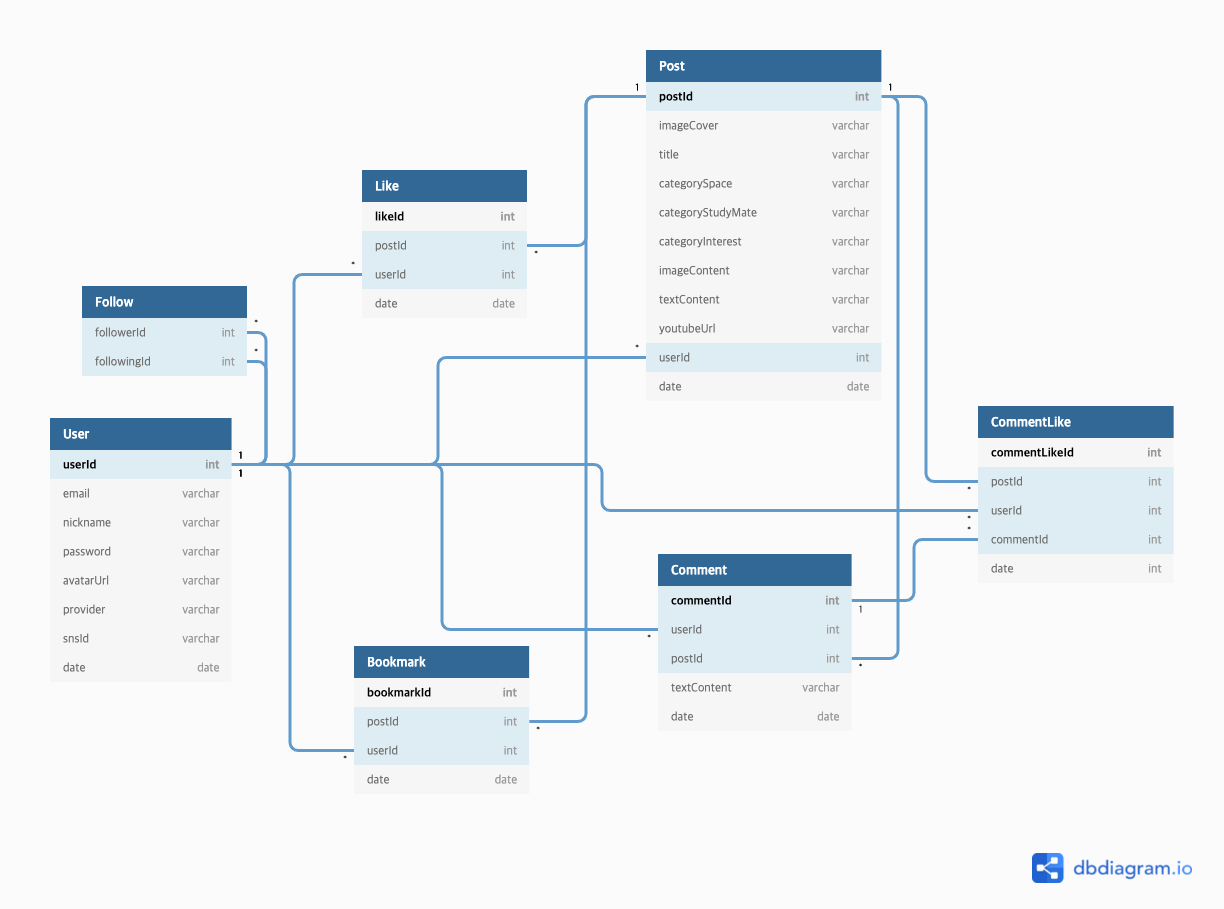
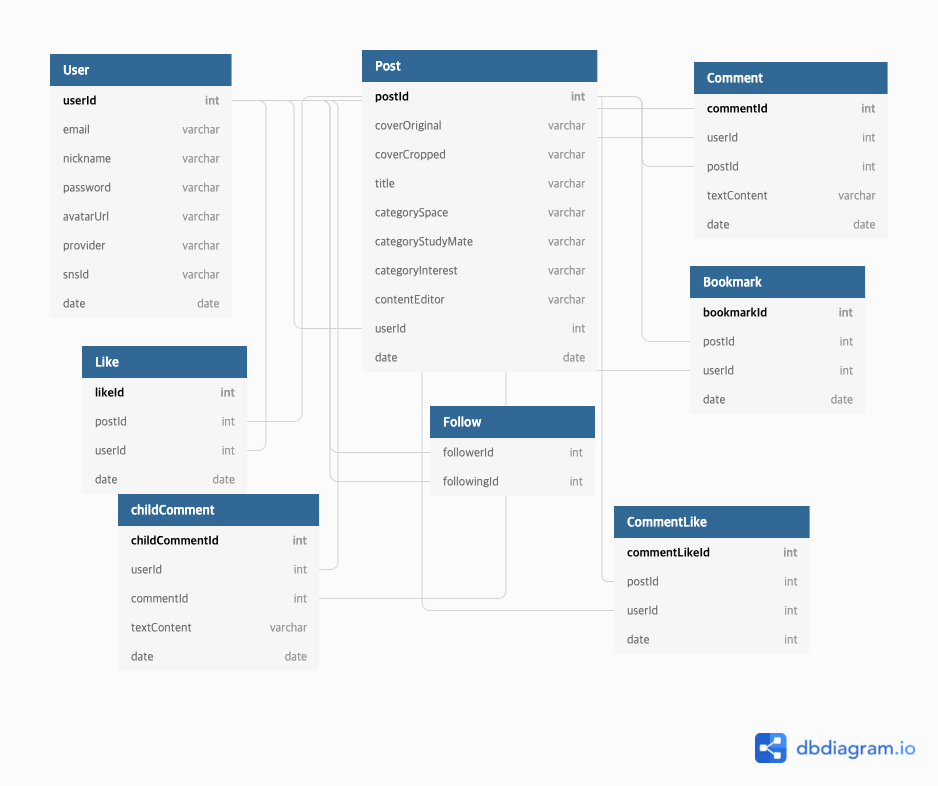
dev test

diff --git a/src/models/user.js b/src/models/user.js
@@ -8,33 +8,37 @@ module.exports = (sequelize, DataTypes) => {
      * The `models/index` file will call this method automatically.
      */
     static associate(db) {
-      db.User.hasMany(db.Post, {
+      User.hasMany(db.Post, {
         foreignKey: "userId",
         sourceKey: "userId",
       });
-      db.User.hasMany(db.Comment, {
+      User.hasMany(db.Comment, {
         foreignKey: "userId",
         sourceKey: "userId",
       });
-      db.User.hasMany(db.Like, {
+      User.hasMany(db.ChildComment, {
         foreignKey: "userId",
         sourceKey: "userId",
       });
-      db.User.hasMany(db.Bookmark, {
+      User.hasMany(db.Like, {
         foreignKey: "userId",
         sourceKey: "userId",
       });
-      db.User.hasMany(db.CommentLike, {
+      User.hasMany(db.Bookmark, {
         foreignKey: "userId",
         sourceKey: "userId",
       });
-      db.User.belongsToMany(db.User, {
+      User.hasMany(db.CommentLike, {
+        foreignKey: "userId",
+        sourceKey: "userId",
+      });
+      User.belongsToMany(db.User, {
         foreignKey: "followingId",
         as: "Followers",
         through: "Follow",
         onDelete: "cascade",
       });
-      db.User.belongsToMany(db.User, {
+      User.belongsToMany(db.User, {
         foreignKey: "followerId",
         as: "Followings",
         through: "Follow",

diff --git a/src/models/childComment.js b/src/models/childComment.js
@@ -1,34 +1,26 @@
 "use strict";
 const { Model } = require("sequelize");
 module.exports = (sequelize, DataTypes) => {
-  class Comment extends Model {
+  class ChildComment extends Model {
     /**
      * Helper method for defining associations.
      * This method is not a part of Sequelize lifecycle.
      * The `models/index` file will call this method automatically.
      */
     static associate(db) {
-      Comment.hasMany(db.ChildComment, {
-        foreignKey: "commentId",
-        sourceKey: "commentId",
-      });
-      Comment.hasMany(db.CommentLike, {
-        foreignKey: "commentId",
-        sourceKey: "commentId",
-      });
-      Comment.belongsTo(db.User, {
+      ChildComment.belongsTo(db.User, {
         foreignKey: "userId",
         targetKey: "userId",
         onDelete: "cascade",
       });
-      Comment.belongsTo(db.Post, {
-        foreignKey: "postId",
-        targetKey: "postId",
+      ChildComment.belongsTo(db.Comment, {
+        foreignKey: "commentId",
+        targetKey: "commentId",
         onDelete: "cascade",
       });
     }
   }
-  Comment.init(
+  ChildComment.init(
     {
       commentId: {
         allowNull: false,
@@ -54,5 +46,5 @@ module.exports = (sequelize, DataTypes) => {
       collate: "utf8_general_ci",
     }
   );
-  return Comment;
+  return ChildComment;
 };

diff --git a/src/migrations/20211123083900-create-child-comment.js b/src/migrations/20211123083900-create-child-comment.js
@@ -1,0 +1,25 @@
+"use strict";
+module.exports = {
+  up: async (queryInterface, Sequelize) => {
+    await queryInterface.createTable("ChildComments", {
+      commentId: {
+        allowNull: false,
+        autoIncrement: true,
+        primaryKey: true,
+        type: DataTypes.INTEGER,
+        unique: true,
+      },
+      textContent: {
+        allowNull: false,
+        type: DataTypes.STRING,
+      },
+      date: {
+        allowNull: false,
+        type: DataTypes.DATE,
+      },
+    });
+  },
+  down: async (queryInterface, Sequelize) => {
+    await queryInterface.dropTable("ChildComments");
+  },
+};

diff --git a/src/models/index.js b/src/models/index.js
@@ -3,8 +3,8 @@ const fs = require("fs");
 const path = require("path");
 const Sequelize = require("sequelize");
 const basename = path.basename(__filename);
-// const env = process.env.NODE_ENV || "development";
-const env = "rds";
+const env = process.env.NODE_ENV || "development";
+// const env = "rds";
 const config = require(__dirname + "/../config/config.js")[env];
 const db = {};
 
